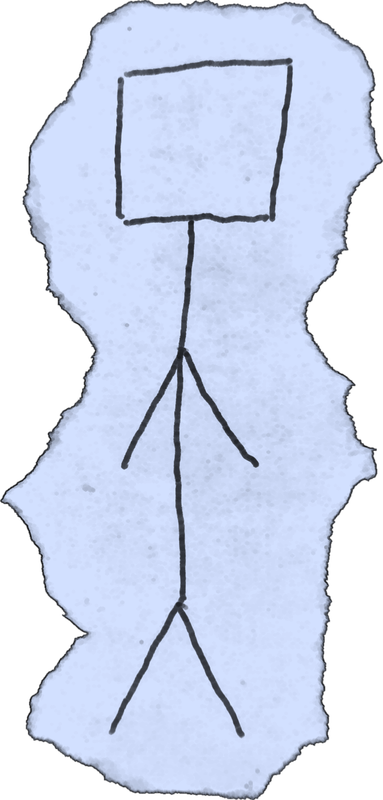
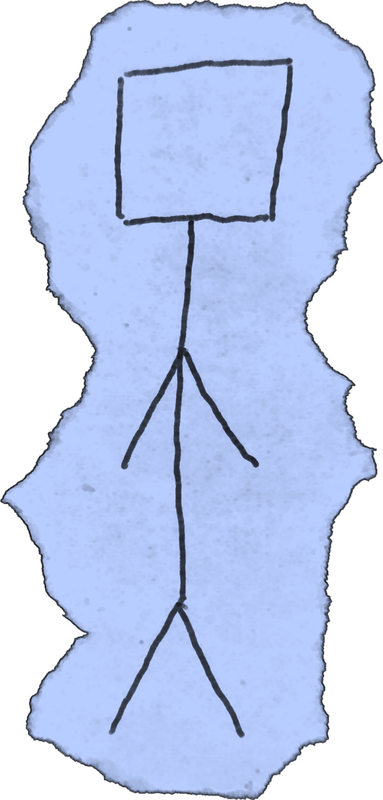
Teinte plus marquée, page personnages qui défile, retour à la galerie en bas au centre

diff --git a/index.html b/index.html
@@ -49,10 +49,12 @@
   .boutons { display: flex; gap: 1em; justify-content: center; }
   .credits { margin-top: 3em; opacity: .5; font-size: .75rem; }
 
-  #personas { display: flex; flex-direction: column; align-items: center; padding: 3% 4%; z-index: 8;
+  #personas { display: flex; flex-direction: column; align-items: center; padding: 3% 4%; z-index: 8; overflow-y: auto;
     background: radial-gradient(ellipse at 50% 20%, #50080e, #070103 75%); }
   #personas h2 { font: 700 clamp(1.6rem, 3vw, 2.6rem) Cinzel, serif; margin: 0 0 .6em; letter-spacing: .06em; }
-  .fiches { display: grid; grid-template-columns: repeat(3, 1fr); gap: 2.5%; width: 100%; flex: 1; min-height: 0; margin-bottom: 1.2em; }
+  /* les fiches gardent leur hauteur : sur un petit écran la page défile au lieu de passer sous le bouton */
+  .fiches { display: grid; grid-template-columns: repeat(auto-fit, minmax(240px, 1fr)); gap: 1.2em; width: 100%; flex: none; margin-bottom: 1.2em; }
+  #fermer-personas { flex: none; }
   .fiches article { display: flex; flex-direction: column; align-items: center; text-align: center; padding: 1.2em 1.4em;
     background: rgba(20, 3, 6, .7); border: 1px solid rgba(227, 38, 47, .55); border-radius: 6px; font-size: .95rem; }
   .fiches img { height: 24vh; margin-bottom: .6em; filter: drop-shadow(0 6px 10px rgba(0, 0, 0, .6)); }
@@ -91,7 +93,7 @@
   #dialogue { position: absolute; inset: 0; z-index: 5; }
   #dialogue:not(.on) #bulle { opacity: 0; }
 
-  #retour { position: absolute; inset: 2.5% 1.5% auto auto; z-index: 6; font-size: .7rem; padding: .45em 1.1em; }
+  #retour { position: absolute; inset: auto auto 7% 50%; translate: -50% 0; z-index: 6; }
 
   /* ---------- la main remplace la souris ---------- */
   #main { position: fixed; left: 0; top: 0; height: 84px; z-index: 99; pointer-events: none; translate: -21px -1px; opacity: 0;
